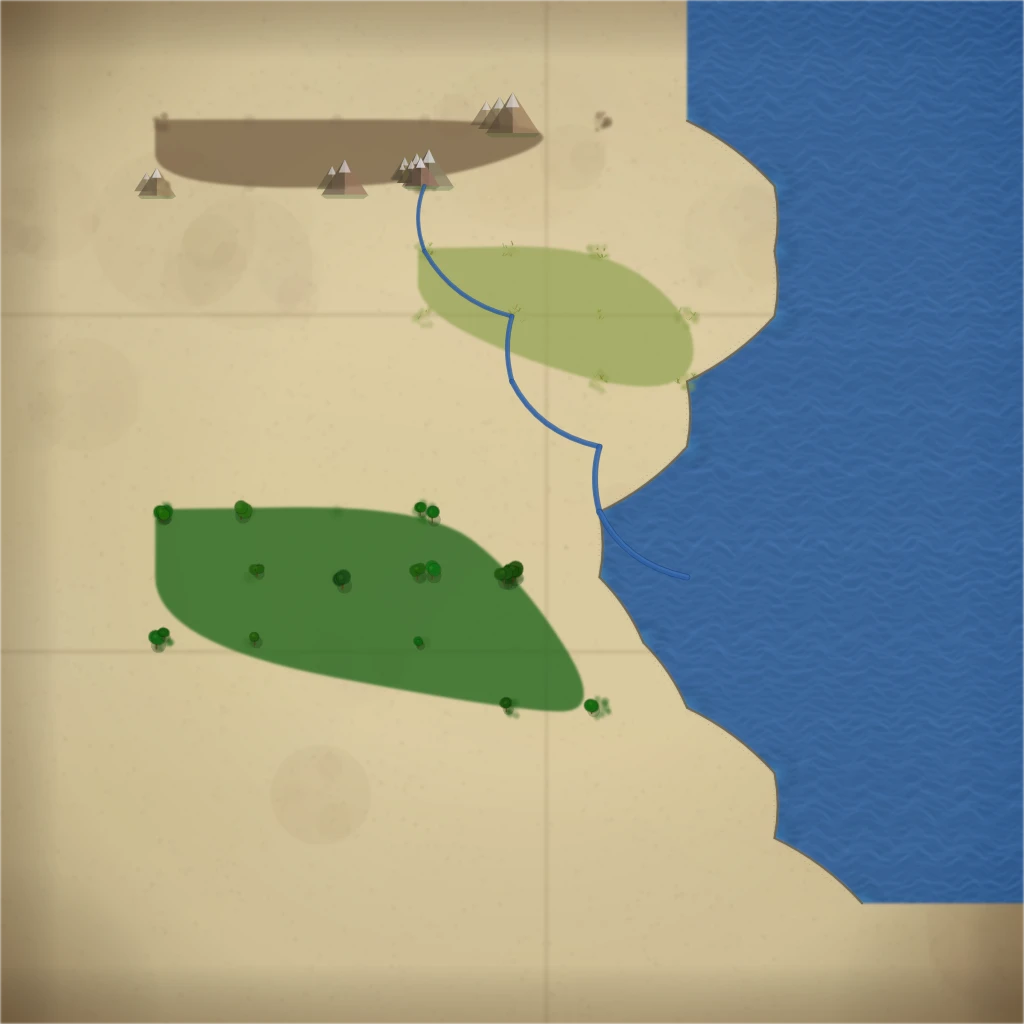
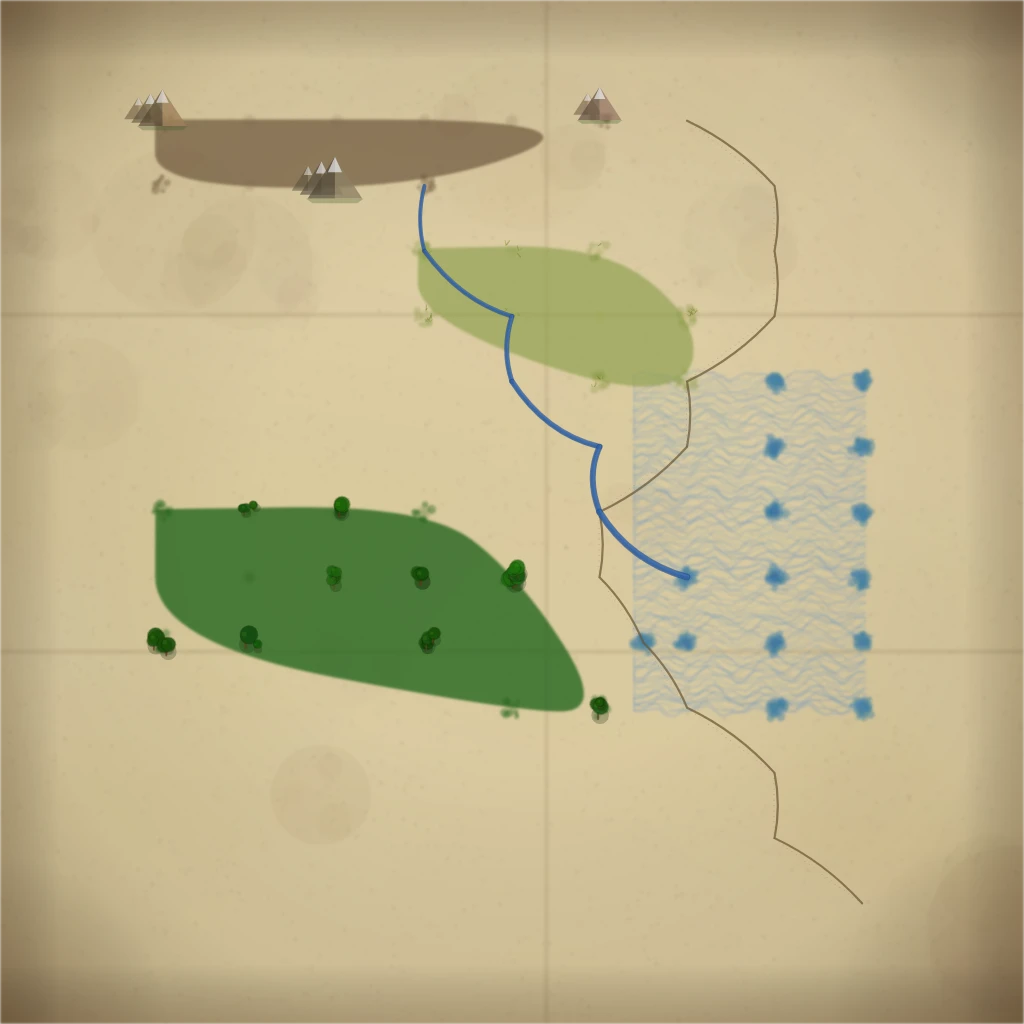
fix: SD 배경 존재 시 Skia 지형 렌더링 전체 스킵
- SD 있으면 양피지 위에 SD 배경 바로 올리고 마커 단계로 점프
- 지형색/블러/아이콘/해안선/강 전부 스킵 (SD가 이미 포함)
- 에르시아 파란색 범람 완전 해소

diff --git a/core/world_map.py b/core/world_map.py
@@ -873,111 +873,124 @@ def generate_world_map():
                 canvas.restore()
 
     # ── 2단계-B: 대륙 지형색 채우기 (blob, 아이콘 제외) ──
-    render_order = ["plains", "coastline", "swamp", "forest", "mountain"]
-    if not _has_coastline_path:
-        render_order = ["sea"] + render_order
-    for target_type in render_order:
+    # SD 배경이 있으면 Skia 지형 렌더링 전체 스킵 (SD가 배경을 완전히 대체)
+    if _has_sd_bg:
+        # SD 배경을 양피지 위에 바로 올리고 마커 단계로 점프
+        import numpy
+        sd_array = numpy.array(cached_bg)
+        sd_image = skia.Image.fromarray(sd_array)
+        canvas.drawImage(sd_image, 0, 0)
+        # 마커 단계(3단계)로 바로 이동하기 위해 아래 지형 렌더링 건너뛰기
+        _skip_terrain_rendering = True
+    else:
+        _skip_terrain_rendering = False
+
+    if not _skip_terrain_rendering:
+        render_order = ["plains", "coastline", "swamp", "forest", "mountain"]
+        if not _has_coastline_path:
+            render_order = ["sea"] + render_order
+        for target_type in render_order:
+            for feat in terrain.get("features", []):
+                ftype = feat.get("type", "")
+                if ftype != target_type:
+                    continue
+                if "coords" in feat:
+                    _draw_terrain_pattern(canvas, feat["coords"], ftype, to_pixel, tw, th, _rng,
+                                          fill_only=True)
+
+        # 지형 경계 부드럽게 — 가우시안 블러 (Skia 네이티브)
+        image_snap = final_surface.makeImageSnapshot()
+        blur_surface = skia.Surface(W, H)
+        blur_canvas = blur_surface.getCanvas()
+        blur_paint = skia.Paint()
+        blur_paint.setImageFilter(skia.ImageFilters.Blur(1.2, 1.2))
+        blur_canvas.drawImage(image_snap, 0, 0, skia.SamplingOptions(), blur_paint)
+        # 블러 결과를 새 surface로 교체
+        final_surface = skia.Surface(W, H)
+        canvas = final_surface.getCanvas()
+        canvas.drawImage(blur_surface.makeImageSnapshot(), 0, 0)
+
+        # ── 2단계-C: 지형 아이콘 그리기 (블러 후 선명하게) ──
+        icon_types = ["forest", "mountain", "plains", "swamp"]
+        for target_type in icon_types:
+            for feat in terrain.get("features", []):
+                ftype = feat.get("type", "")
+                if ftype != target_type:
+                    continue
+                if "coords" in feat:
+                    _draw_terrain_pattern(canvas, feat["coords"], ftype, to_pixel, tw, th, _rng,
+                                          icons_only=True)
+
+        # 해안선 곡선 + 빗금 (블러 후 선명하게)
         for feat in terrain.get("features", []):
-            ftype = feat.get("type", "")
-            if ftype != target_type:
-                continue
-            if "coords" in feat:
-                _draw_terrain_pattern(canvas, feat["coords"], ftype, to_pixel, tw, th, _rng,
-                                      fill_only=True)
-
-    # 지형 경계 부드럽게 — 가우시안 블러 (Skia 네이티브)
-    image_snap = final_surface.makeImageSnapshot()
-    blur_surface = skia.Surface(W, H)
-    blur_canvas = blur_surface.getCanvas()
-    blur_paint = skia.Paint()
-    blur_paint.setImageFilter(skia.ImageFilters.Blur(1.2, 1.2))
-    blur_canvas.drawImage(image_snap, 0, 0, skia.SamplingOptions(), blur_paint)
-    # 블러 결과를 새 surface로 교체
-    final_surface = skia.Surface(W, H)
-    canvas = final_surface.getCanvas()
-    canvas.drawImage(blur_surface.makeImageSnapshot(), 0, 0)
-
-    # ── 2단계-C: 지형 아이콘 그리기 (블러 후 선명하게) ──
-    icon_types = ["forest", "mountain", "plains", "swamp"]
-    for target_type in icon_types:
-        for feat in terrain.get("features", []):
-            ftype = feat.get("type", "")
-            if ftype != target_type:
-                continue
-            if "coords" in feat:
-                _draw_terrain_pattern(canvas, feat["coords"], ftype, to_pixel, tw, th, _rng,
-                                      icons_only=True)
-
-    # 해안선 곡선 + 빗금 (블러 후 선명하게)
-    for feat in terrain.get("features", []):
-        if feat.get("type") == "coastline" and "path" in feat:
-            pts = feat["path"]
-            if len(pts) >= 2:
-                # 굵은 해안선
-                coast_path = skia.Path()
-                x0, y0 = to_pixel(pts[0][0], pts[0][1])
-                coast_path.moveTo(x0, y0)
-                for i in range(1, len(pts)):
-                    px, py = to_pixel(pts[i][0], pts[i][1])
-                    prev_x, prev_y = to_pixel(pts[i-1][0], pts[i-1][1])
-                    cpx = (prev_x + px) / 2 + (py - prev_y) * 0.1
-                    cpy = (prev_y + py) / 2 - (px - prev_x) * 0.1
-                    coast_path.quadTo(cpx, cpy, px, py)
-                p = _skia_paint(0.40, 0.32, 0.20, 0.7,
-                                style=skia.Paint.kStroke_Style, stroke_width=tw * 0.25)
-                p.setStrokeCap(skia.Paint.kRound_Cap)
-                canvas.drawPath(coast_path, p)
-                # 빗금
-                _draw_coastline_hatching(canvas, pts, to_pixel, tw, math)
-
-    # 강: 파란 곡선, 하류로 갈수록 굵어짐
-    for feat in terrain.get("features", []):
-        if feat.get("type") == "river" and "path" in feat:
-            path_pts = [to_pixel(c[0], c[1]) for c in feat["path"]]
-            if len(path_pts) >= 2:
-                base_width = max(2, tw * 0.08)
-                max_width = max(5, tw * 0.22)
-                for i in range(1, len(path_pts)):
-                    progress = i / max(1, len(path_pts) - 1)
-                    line_w = base_width + (max_width - base_width) * progress
-                    prev = path_pts[i-1]; curr = path_pts[i]
-                    dx = curr[0]-prev[0]; dy = curr[1]-prev[1]
-                    cpx = (prev[0]+curr[0])/2 - dy*0.2 + _rng.uniform(-6,6)
-                    cpy = (prev[1]+curr[1])/2 + dx*0.2 + _rng.uniform(-3,3)
-                    # 어두운 외곽
-                    rp = skia.Path()
-                    rp.moveTo(*prev); rp.quadTo(cpx, cpy, *curr)
-                    p = _skia_paint(0.12, 0.25, 0.50, 0.6,
-                                    style=skia.Paint.kStroke_Style, stroke_width=line_w + 1.5)
+            if feat.get("type") == "coastline" and "path" in feat:
+                pts = feat["path"]
+                if len(pts) >= 2:
+                    # 굵은 해안선
+                    coast_path = skia.Path()
+                    x0, y0 = to_pixel(pts[0][0], pts[0][1])
+                    coast_path.moveTo(x0, y0)
+                    for i in range(1, len(pts)):
+                        px, py = to_pixel(pts[i][0], pts[i][1])
+                        prev_x, prev_y = to_pixel(pts[i-1][0], pts[i-1][1])
+                        cpx = (prev_x + px) / 2 + (py - prev_y) * 0.1
+                        cpy = (prev_y + py) / 2 - (px - prev_x) * 0.1
+                        coast_path.quadTo(cpx, cpy, px, py)
+                    p = _skia_paint(0.40, 0.32, 0.20, 0.7,
+                                    style=skia.Paint.kStroke_Style, stroke_width=tw * 0.25)
                     p.setStrokeCap(skia.Paint.kRound_Cap)
-                    canvas.drawPath(rp, p)
-                    # 메인 강
-                    rp2 = skia.Path()
-                    rp2.moveTo(*prev); rp2.quadTo(cpx, cpy, *curr)
-                    p2 = _skia_paint(0.20, 0.40, 0.65, 0.8,
-                                     style=skia.Paint.kStroke_Style, stroke_width=line_w)
-                    p2.setStrokeCap(skia.Paint.kRound_Cap)
-                    canvas.drawPath(rp2, p2)
-                    # 하이라이트
-                    rp3 = skia.Path()
-                    rp3.moveTo(prev[0]+1, prev[1]-1); rp3.quadTo(cpx+1, cpy-1, curr[0]+1, curr[1]-1)
-                    p3 = _skia_paint(0.35, 0.55, 0.80, 0.3,
-                                     style=skia.Paint.kStroke_Style, stroke_width=max(1, line_w * 0.4))
-                    p3.setStrokeCap(skia.Paint.kRound_Cap)
-                    canvas.drawPath(rp3, p3)
+                    canvas.drawPath(coast_path, p)
+                    # 빗금
+                    _draw_coastline_hatching(canvas, pts, to_pixel, tw, math)
 
-    # Skia 배경을 webp로 캐시 저장
-    try:
-        _cache_tmp = os.path.join(world_map_dir, "world_map_temp_cache.tmp.png")
-        final_surface.makeImageSnapshot().save(_cache_tmp, skia.kPNG)
-        _cache_img = Image.open(_cache_tmp).convert("RGBA")
-        _cache_img.save(skia_bg_cache_path, "WEBP", quality=90)
+        # 강: 파란 곡선, 하류로 갈수록 굵어짐
+        for feat in terrain.get("features", []):
+            if feat.get("type") == "river" and "path" in feat:
+                path_pts = [to_pixel(c[0], c[1]) for c in feat["path"]]
+                if len(path_pts) >= 2:
+                    base_width = max(2, tw * 0.08)
+                    max_width = max(5, tw * 0.22)
+                    for i in range(1, len(path_pts)):
+                        progress = i / max(1, len(path_pts) - 1)
+                        line_w = base_width + (max_width - base_width) * progress
+                        prev = path_pts[i-1]; curr = path_pts[i]
+                        dx = curr[0]-prev[0]; dy = curr[1]-prev[1]
+                        cpx = (prev[0]+curr[0])/2 - dy*0.2 + _rng.uniform(-6,6)
+                        cpy = (prev[1]+curr[1])/2 + dx*0.2 + _rng.uniform(-3,3)
+                        # 어두운 외곽
+                        rp = skia.Path()
+                        rp.moveTo(*prev); rp.quadTo(cpx, cpy, *curr)
+                        p = _skia_paint(0.12, 0.25, 0.50, 0.6,
+                                        style=skia.Paint.kStroke_Style, stroke_width=line_w + 1.5)
+                        p.setStrokeCap(skia.Paint.kRound_Cap)
+                        canvas.drawPath(rp, p)
+                        # 메인 강
+                        rp2 = skia.Path()
+                        rp2.moveTo(*prev); rp2.quadTo(cpx, cpy, *curr)
+                        p2 = _skia_paint(0.20, 0.40, 0.65, 0.8,
+                                         style=skia.Paint.kStroke_Style, stroke_width=line_w)
+                        p2.setStrokeCap(skia.Paint.kRound_Cap)
+                        canvas.drawPath(rp2, p2)
+                        # 하이라이트
+                        rp3 = skia.Path()
+                        rp3.moveTo(prev[0]+1, prev[1]-1); rp3.quadTo(cpx+1, cpy-1, curr[0]+1, curr[1]-1)
+                        p3 = _skia_paint(0.35, 0.55, 0.80, 0.3,
+                                         style=skia.Paint.kStroke_Style, stroke_width=max(1, line_w * 0.4))
+                        p3.setStrokeCap(skia.Paint.kRound_Cap)
+                        canvas.drawPath(rp3, p3)
+
+        # Skia 배경을 webp로 캐시 저장
         try:
-            os.remove(_cache_tmp)
+            _cache_tmp = os.path.join(world_map_dir, "world_map_temp_cache.tmp.png")
+            final_surface.makeImageSnapshot().save(_cache_tmp, skia.kPNG)
+            _cache_img = Image.open(_cache_tmp).convert("RGBA")
+            _cache_img.save(skia_bg_cache_path, "WEBP", quality=90)
+            try:
+                os.remove(_cache_tmp)
+            except Exception:
+                pass
         except Exception:
             pass
-    except Exception:
-        pass
 
     # ─── SD 캐시 배경 적용 (SD 캐시가 있으면 배경 위에 오버레이) ───
     use_sd_enhancement = False
